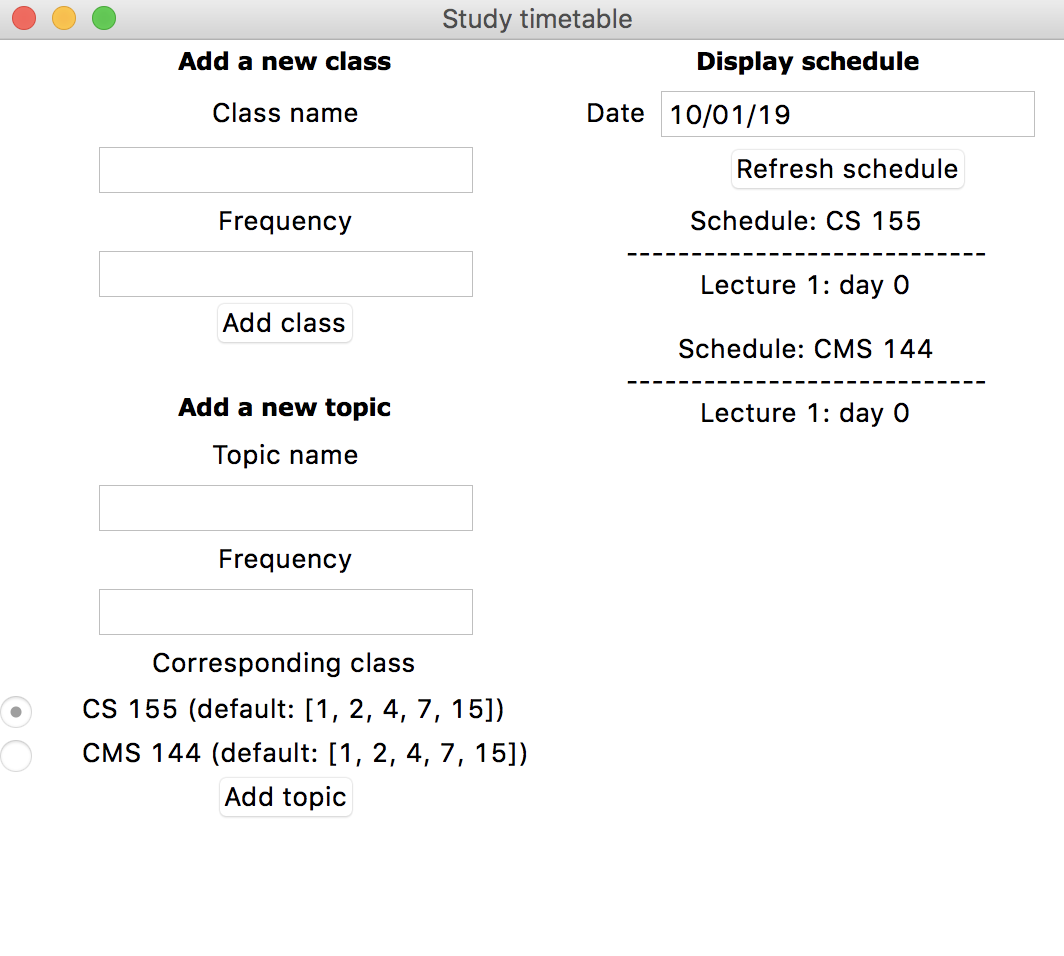
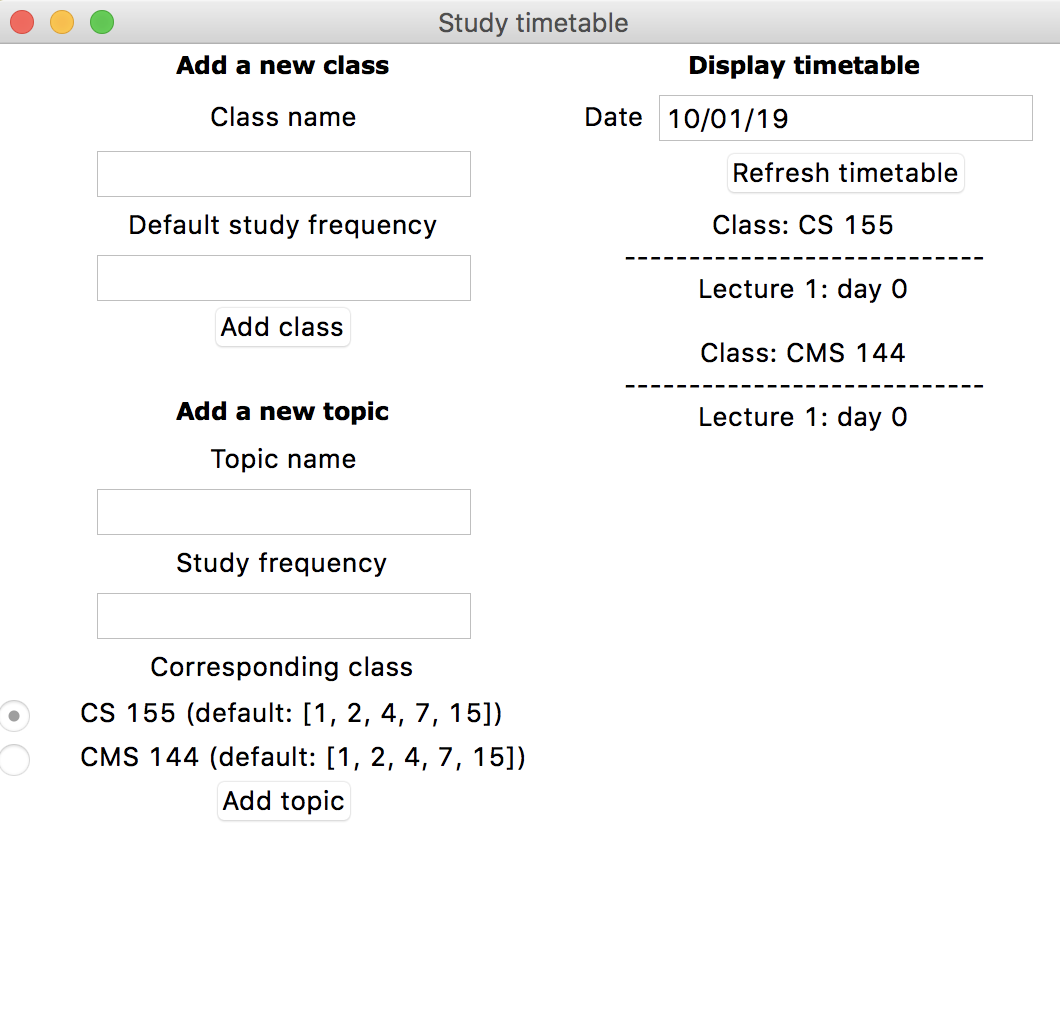
updated names

diff --git a/study_planner.py b/study_planner.py
@@ -106,7 +106,7 @@ class Schedule(object):
     def print_date(self, day):
         '''Print a list of topics to revise today.'''
         self.update()
-        to_be_printed = 'Schedule: ' + self.name + '\n'
+        to_be_printed = 'Class: ' + self.name + '\n'
         to_be_printed += '----------------------------\n'
         try:
             topics = self.dates[day]
@@ -186,7 +186,7 @@ class Application(tk.Frame):
         new_calendar_entry.grid(row=2, column=0)
 
         # Specify default frequency of new calendar.
-        tk.Label(self.master, text="Frequency").grid(row=3, column=0)
+        tk.Label(self.master, text="Default study frequency").grid(row=3, column=0)
 
         new_calendar_freq = tk.StringVar()
         new_calendar_freq_entry = tk.Entry(self.master,
@@ -219,7 +219,7 @@ class Application(tk.Frame):
         add_name_entry.grid(row=9, column=0)
 
         # Specify frequency at which to study the topic.
-        tk.Label(self.master, text="Frequency").grid(row=10, column=0)
+        tk.Label(self.master, text="Study frequency").grid(row=10, column=0)
         add_frequency_entry = tk.Entry(self.master)
         add_frequency_entry.grid(row=11, column=0)
 
@@ -290,7 +290,7 @@ class Application(tk.Frame):
     def display_schedule(self):
         ''' Display the topics to be studied on a specific date.'''
 
-        tk.Label(self.master, text='Display schedule',
+        tk.Label(self.master, text='Display timetable',
                 font='Verdana 12 bold').grid(row=0, column=1, columnspan=2)
         tk.Label(self.master, text='Date').grid(row=1, column=1)
 
@@ -300,7 +300,7 @@ class Application(tk.Frame):
                                            textvariable=self.display_date)
         display_date_entry.grid(row=1, column=2)
 
-        tk.Button(self.master, text='Refresh schedule',
+        tk.Button(self.master, text='Refresh timetable',
                   command=self.update_display_schedule).grid(row=2, column=2)
 
         return
